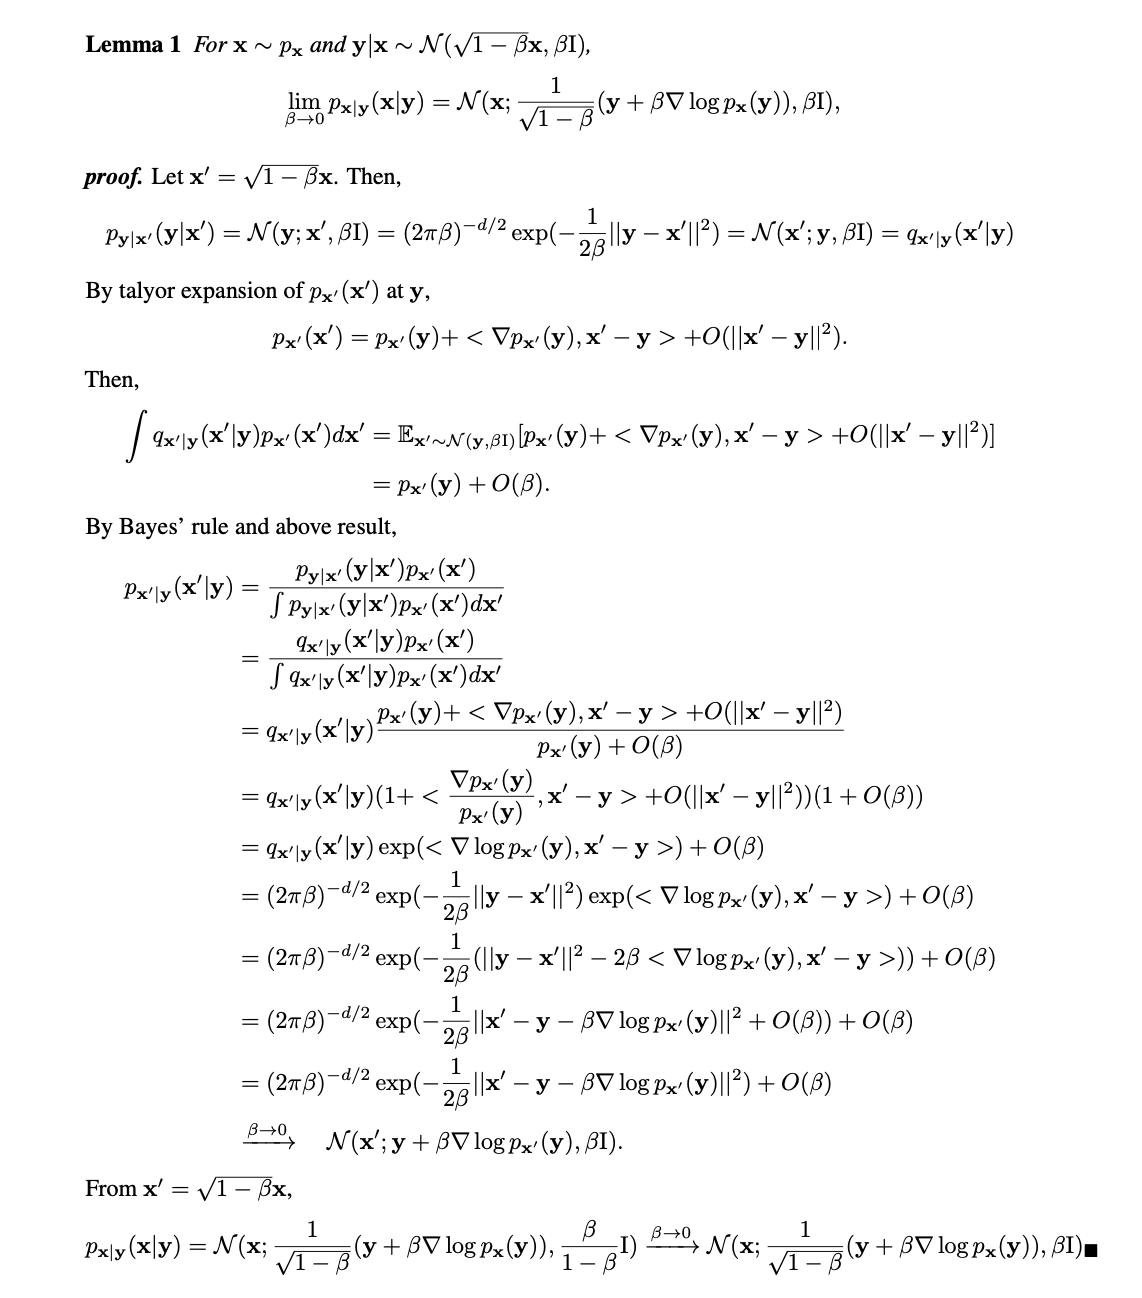
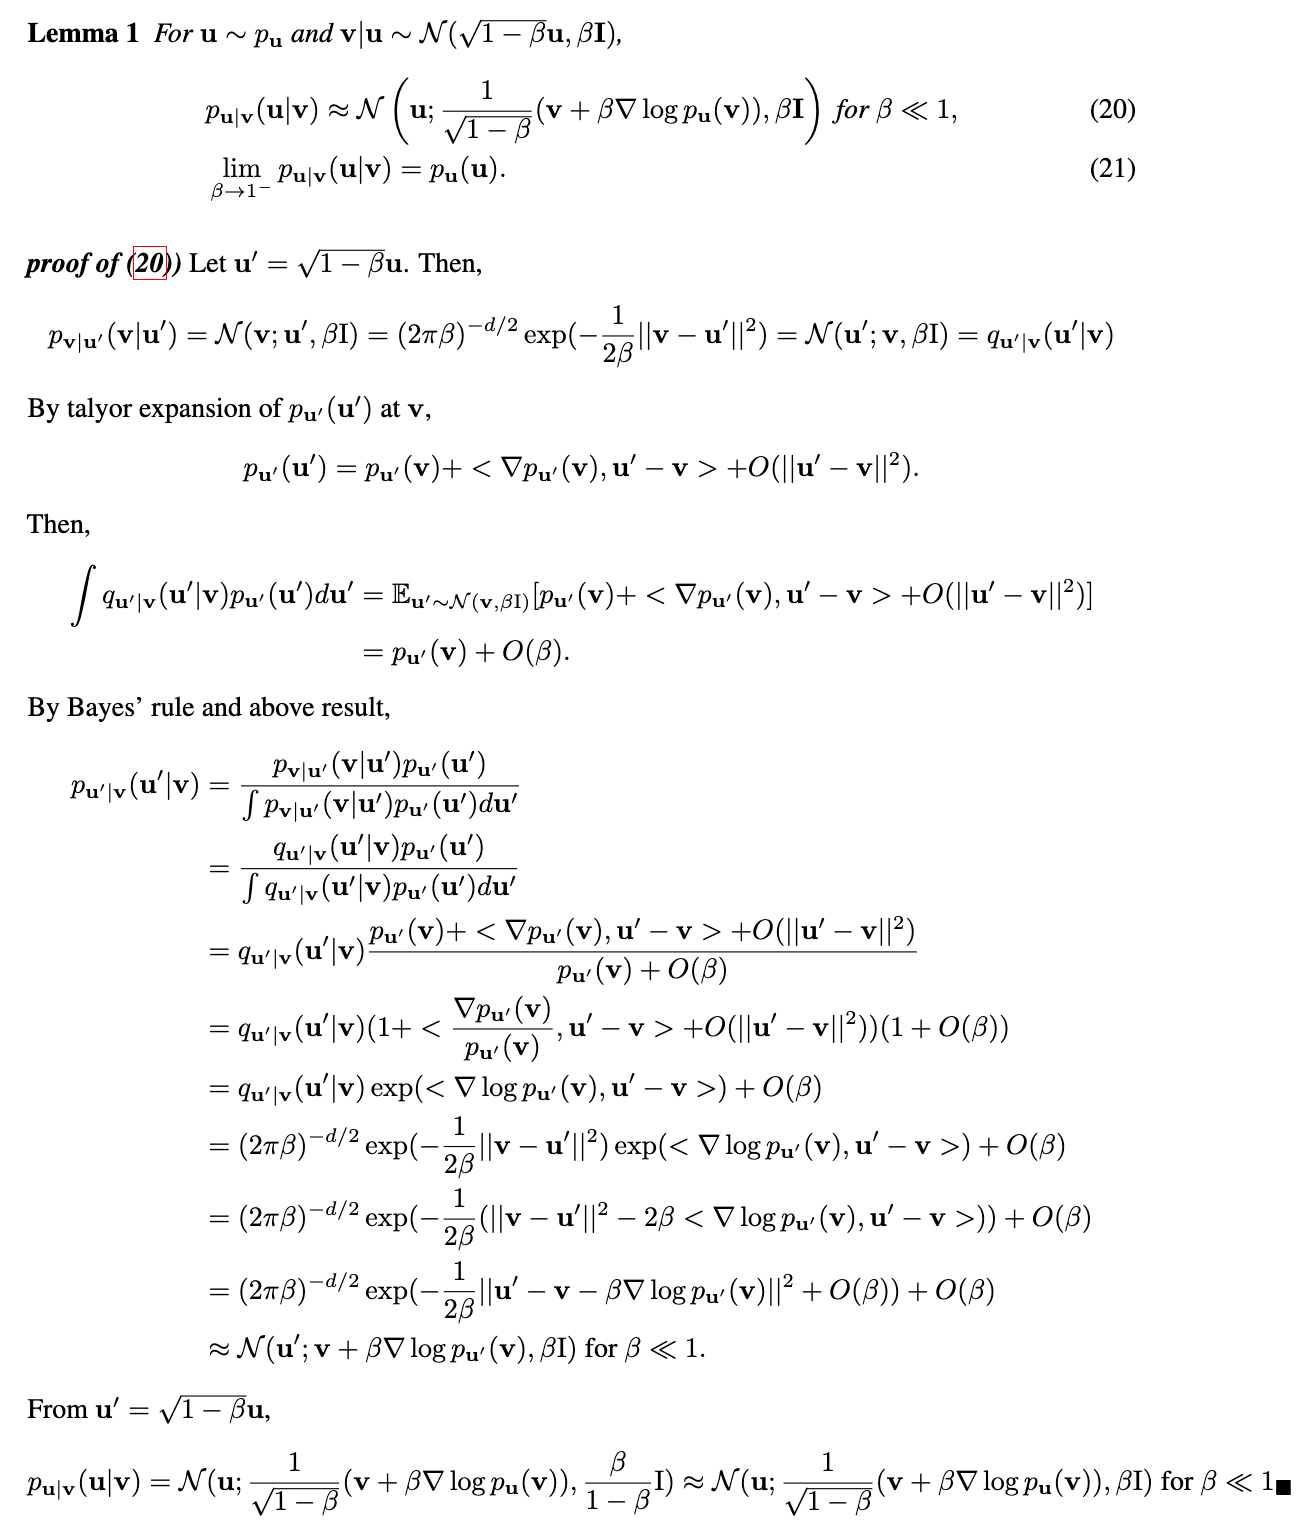
0903post_proof

diff --git a/_posts/_2023-01-01-dl: Elucidating the Design Space of Diffusion-Based Generative Models .md b/_posts/_2023-01-01-dl: Elucidating the Design Space of Diffusion-Based Generative Models .md
@@ -1,0 +1,71 @@
+---
+layout: distill
+title: Elucidating the Design Space of Diffusion-Based Generative Models
+date: 2023-01-01
+description: 
+categories: deep-learning # deep-learning, finance, 
+tags: paper-review, # paper-review, survey, 
+giscus_comments: true
+related_posts: false
+featured: false
+
+authors:
+  - name: Junoh Kang
+    url:
+    affiliations:
+      name: Seoul National University
+
+bibliography: diffusion.bib
+
+toc:
+  - name: Overview 
+    # subsections:
+    #   - name: Subsection 1
+    #   - name: Subsection 2
+---
+
+## Overview 
+
+<!-- ---------------------------------------------------------------------- -->
+## Generalizing Formulations
+
+**Score-Based Model**<d-cite key="song2021scorebased"></d-cite> defines the flow ODE by its evolution:
+$$
+  \begin{align}
+    d\mathrm{x}_t = \left[ f(\mathrm{x}_t,t)dt - \frac{1}{2} g^2(t) \nabla \log p_t(\mathrm{x}_t)  \right]dt
+  \end{align}
+$$
+
+where $$f:\mathbb{R}^{h\times w \times 3}\times \mathbb{R} \rightarrow \mathbb{R}^{h\times w \times 3}$$ and $$g:\mathbb{R} \rightarrow \mathbb{R}$$ are predefined functions and $$\mathrm{w}_t$$ is Brownian process. 
+
+On the other hand, **EDM**<d-cite key="karras2022elucidating"></d-cite> defines the marginal distribution first.
+$$
+  \begin{align}
+    p_t(\mathrm{x}_t) 
+    &= \int p_{data}(\mathrm{x}_0)p_{t|0}(\mathrm{x}_t | \mathrm{x}_0) d\mathrm{x}_0 \\
+    &= \int p_{data}(\mathrm{x}_0)\left[\mathcal{N}(\mathrm{x}_t;s(t)\mathrm{x}_0, s(t)^2\sigma(t)^2\mathrm{I})\right] d\mathrm{x}_0 \\
+    &= s(t)^{-d} \left[p_{data} * \mathcal{N}(\mathrm{0}, \sigma(t)^2 \mathrm{I})\right](\mathrm{x}_t/s(t))
+  \end{align}
+$$
+
+Then, the flow ODE in forms of differential equation is 
+$$
+  \begin{align}
+    d\mathrm{x}_t = \left[
+      \dot{s}(t)\mathrm{x}_t / s(t) - s(t)^2 \dot{\sigma}(t)\sigma(t) \nabla_{\mathrm{x}_t}\log p_t(\mathrm{x_t})
+    \right] dt
+  \end{align}
+$$
+
+
+<!-- ---------------------------------------------------------------------- -->
+## Enhancements in Sampling
+
+#### Discretization
+
+#### Higher order Runge-Kutta method
+
+<!-- ---------------------------------------------------------------------- -->
+
+
+## Enhancements in Training

diff --git a/_posts/2023-09-03-dl : Diffusion Models in Two Perspectives.md b/_posts/2023-09-03-dl : Diffusion Models in Two Perspectives.md
@@ -55,11 +55,11 @@ where $$\{\beta_t\}_{t=1}^T$$ are pre-defined constants.
 
 #### Backward (Denoising) Process
 The backward process is a Markov chain that gradually denoises perturbed data and it is parametrized by neural networks.
-From the observation of
+When $$\beta\ll 1$$ the backward distribution can be approximated as
 $$
   \begin{align}
-    \lim_{\beta_t \rightarrow 0} q_{t-1|t}(\mathrm{x}_{t-1}|\mathrm{x}_{t}) 
-    = \mathcal{N}(\mathrm{x}_{t-1}; \cfrac{1}{ \sqrt{1-\beta_t}}(\mathrm{x}_{t} + \beta_t \nabla \log q_t (\mathrm{x}_t)), \beta_t \mathrm{I}),
+    q_{t-1|t}(\mathrm{x}_{t-1}|\mathrm{x}_{t}) 
+    \approx \mathcal{N}(\mathrm{x}_{t-1}; \cfrac{1}{ \sqrt{1-\beta_t}}(\mathrm{x}_{t} + \beta_t \nabla \log q_t (\mathrm{x}_t)), \beta_t \mathrm{I}).
   \end{align}
 $$
 
@@ -71,7 +71,7 @@ $$
   </div>
 {% enddetails %}
 
-it is reasonable to parametrize the denoising distribution as Gaussian as long as $$\{\beta_t\}_{t=1}^T$$ are infinitesimal. Therefore the bacward process is defined as follows:
+It is reasonable to parametrize the denoising distribution as Gaussian as long as $$\{\beta_t\}_{t=1}^T$$ are infinitesimal. Therefore the bacward process is defined as follows:
 $$
   \begin{gather}
     \mathrm{x}_t \perp\mkern-9.5mu\perp \mathrm{x}_{t+1:T}, \\
@@ -81,7 +81,7 @@ $$
   \end{gather}
 $$
 
-Note that we expect $$s_\theta(\mathrm{x}_t,t)$$ to have similar value to $$\nabla\log q_{t}(\mathrm{x}_t)$$.
+Note that we expect $$s_\theta(\mathrm{x}_t,t)$$ to learn $$\nabla\log q_{t}(\mathrm{x}_t)$$.
 
 #### Minimizing Surrogate of Negative Log-Likelihood
 The negative log-likelihood of data is 

diff --git a/_posts/_template.md b/_posts/_template.md
@@ -4,7 +4,7 @@ title: template
 date: 2023-01-01
 description: 
 categories: survey # deep-learning, finance, 
-tags: paper-review, survey, # paper-review, survey, 
+tags: paper-review, # paper-review, survey, 
 giscus_comments: true
 related_posts: false
 featured: false
@@ -26,4 +26,4 @@ toc:
 
 ## Section
 
-### Subsection 1
+#### Subsection 1
